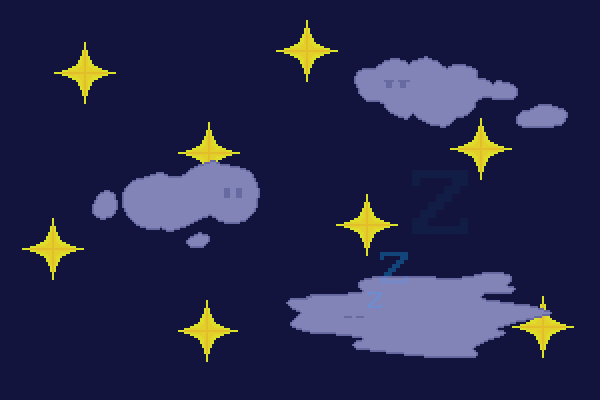
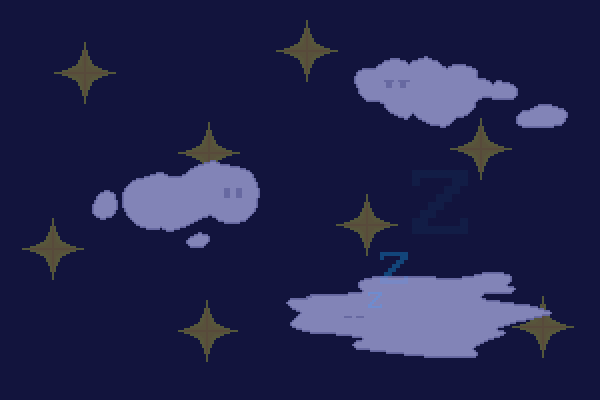
changed bg and added handlers for input

diff --git a/PhotoViewer.html b/PhotoViewer.html
@@ -3,12 +3,67 @@
 
 <head>
     <title>Photo Viewer</title>
+
+    <style>
+        body{
+            text-align: center;
+            font-family: 'Franklin Gothic Medium', 'Arial Narrow', Arial, sans-serif;
+        }
+        .text {
+            color: #fff;
+        }
+        #number_year {
+            width: 8ch;
+        }
+        #number_month {
+            width: 5ch;
+        }
+        #number_day {
+            width: 5ch;
+        }
+    </style>
 </head>
 
 <body background="Background for PhotoViewer.png">
+<h2 class="text">Photo Viewer</h2>
+<div id="containerFilterTile">
+    <label class="text">Time</label>
+    <input type="number" id="number_year" maxlength="4" onchange=updateDateFilter()>
+    <input type="number" id="number_month" maxlength="2" min="0" max="12" onchange=updateDateFilter()>
+    <input type="number" id="number_day" maxlength="2"  min="0" max="30" onchange=updateDateFilter()>
+</div>
 
 
 <script>
+
+    // global
+    var year = undefined;
+    var month = undefined;
+    var day = undefined;
+
+    function updateDateFilter() {
+        year = document.getElementById("number_year").value;
+        month = document.getElementById("number_month").value;
+        day = document.getElementById("number_day").value;
+
+        console.log(year+"."+month+"."+day)
+    }
+
+    function adaptDateToString(number, digits) {
+        let str = "";
+
+        let stringnum = number.toString();
+
+        for(let i = digits-1; i >= 1; i--) {
+            if(stringnum.length < digits)
+                str+="0";
+        }
+
+        str +=stringnum;
+
+        return str;
+    }
+
 
 </script>
 
